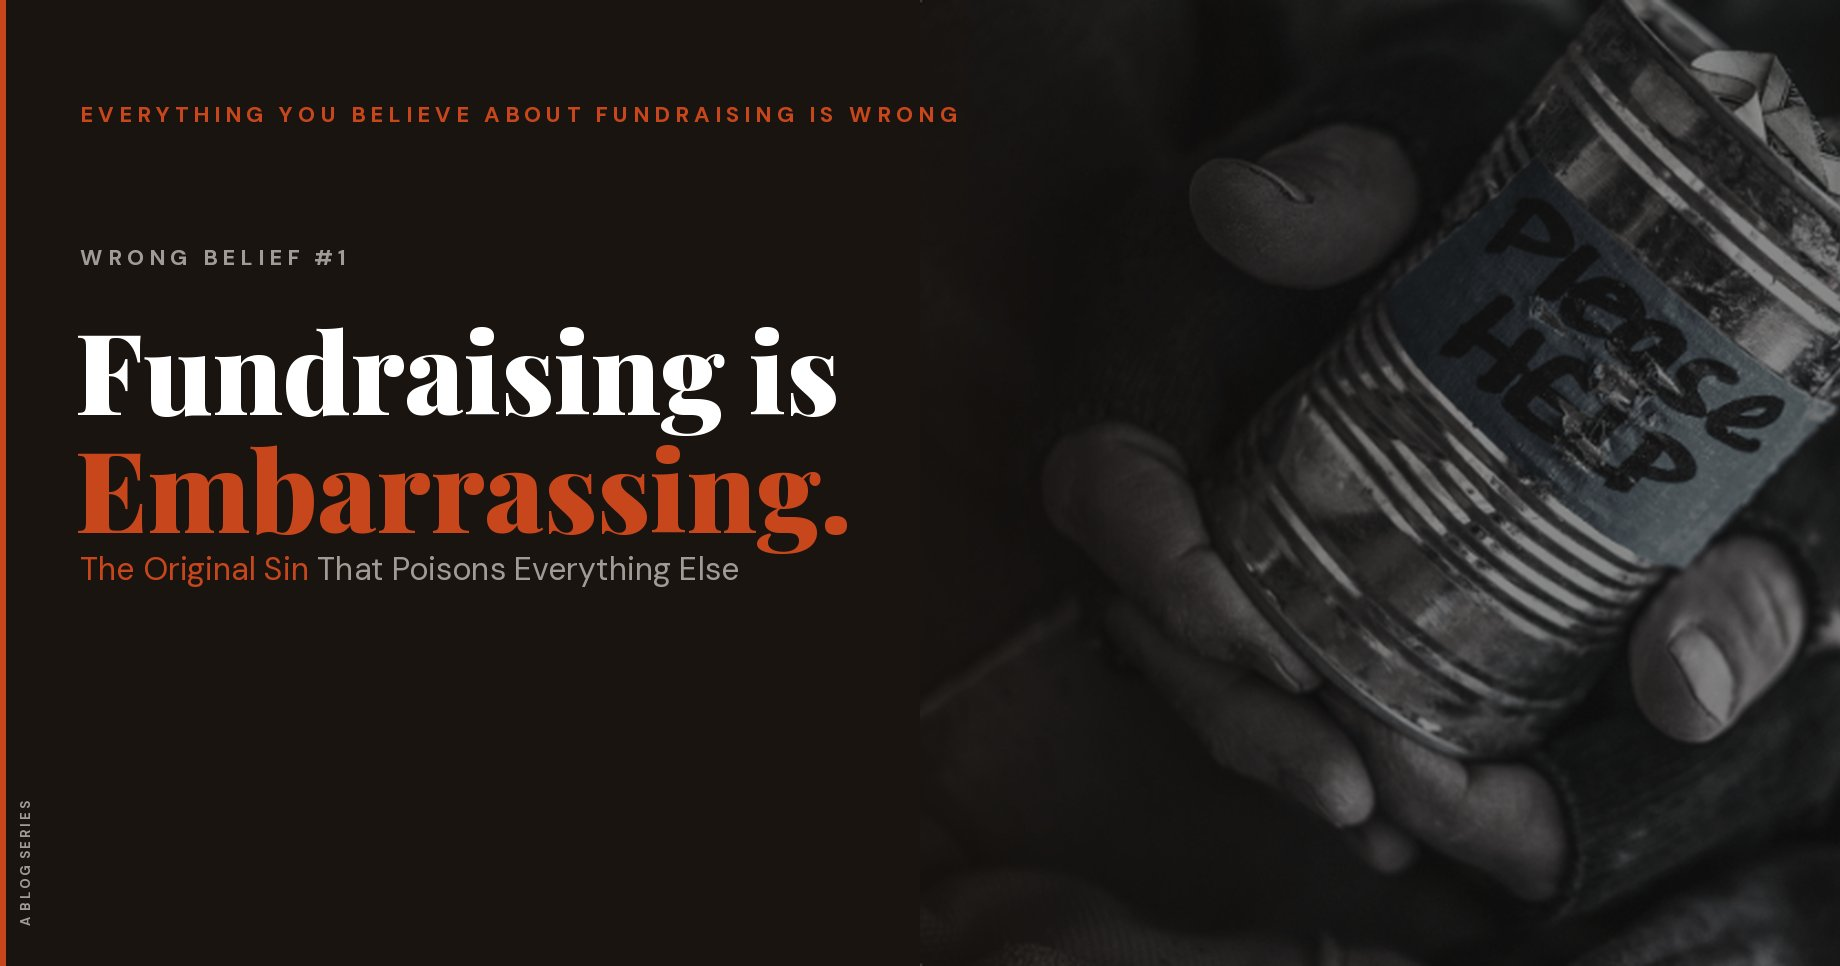
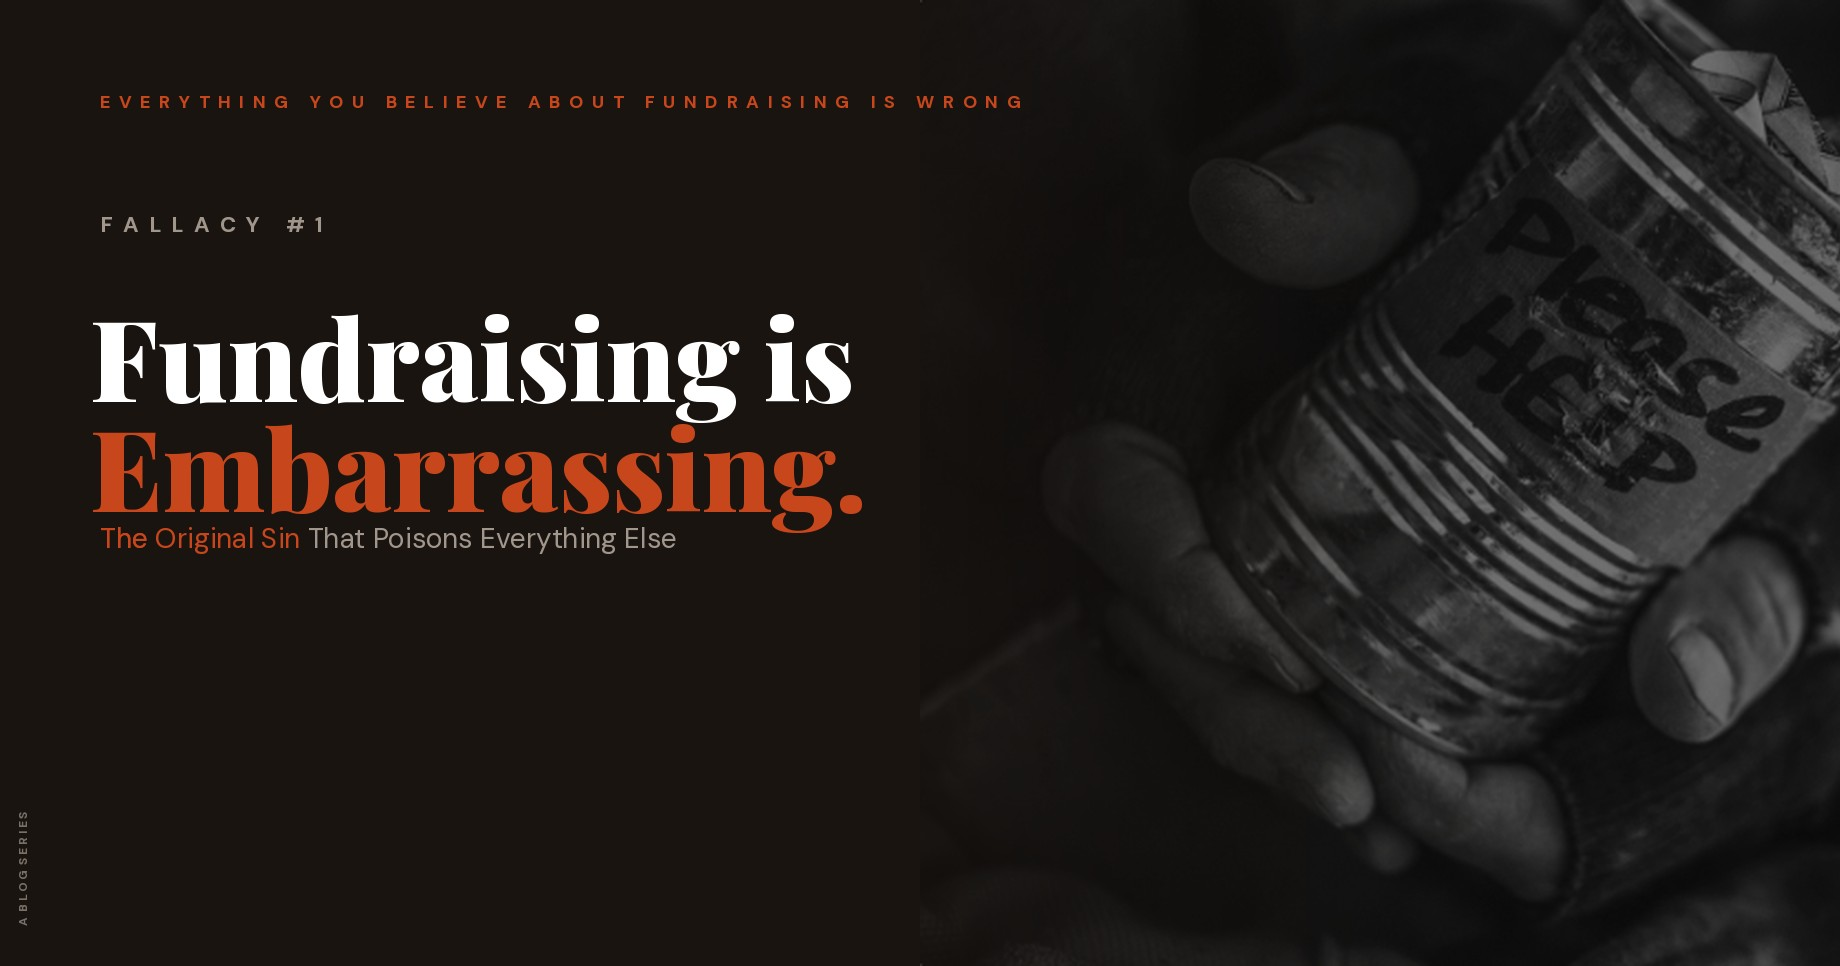
Update blog post with verbatim Word doc text, rename Wrong Belief to Fallacy, fix results.html
- Replace paraphrased/rewritten article body in fundraising-is-embarrassing.html
  with exact text from updated Word doc (restores missing paragraphs, fixes
  truncated sentence, removes non-source "research backs this up" section,
  corrects formatting: italic/bold per source)
- Rename "Wrong Belief #1" to "Fallacy #1" across all references: page title,
  OG/Twitter meta, article series label, blog listing tag, intro post series nav
- Regenerate hero image with "FALLACY #1" text
- Remove "I built the development program from scratch" from results.html

diff --git a/fundraising-is-embarrassing.html b/fundraising-is-embarrassing.html
@@ -11,7 +11,7 @@
     <meta property="og:image:width" content="1840">
     <meta property="og:image:height" content="966">
     <meta property="og:image:type" content="image/jpeg">
-    <meta property="og:image:alt" content="Wrong Belief #1: Fundraising is Embarrassing — blog post from the series Everything You Believe About Fundraising is Wrong">
+    <meta property="og:image:alt" content="Fallacy #1: Fundraising is Embarrassing — blog post from the series Everything You Believe About Fundraising is Wrong">
     <meta property="og:url" content="https://apolloadvancement.com/fundraising-is-embarrassing/">
     <meta property="article:author" content="John Jalsevac, PhD">
     <meta property="article:published_time" content="2026-03-13T00:00:00Z">
@@ -23,10 +23,10 @@
     <meta name="twitter:title" content="Fundraising is Embarrassing: The Original Sin That Poisons Everything Else">
     <meta name="twitter:description" content="If you believe fundraising is embarrassing, you won't get good at it. Full stop. Here's how to root out the belief that poisons nonprofit fundraising.">
     <meta name="twitter:image" content="https://apolloadvancement.com/blog-fundraising-is-embarrassing.jpg">
-    <meta name="twitter:image:alt" content="Wrong Belief #1: Fundraising is Embarrassing — blog post from the series Everything You Believe About Fundraising is Wrong">
+    <meta name="twitter:image:alt" content="Fallacy #1: Fundraising is Embarrassing — blog post from the series Everything You Believe About Fundraising is Wrong">
     <meta name="description" content="If you believe fundraising is embarrassing, you won't get good at it. Full stop. Here's how to root out the original sin that poisons nonprofit fundraising.">
     <link rel="canonical" href="https://apolloadvancement.com/fundraising-is-embarrassing/">
-    <title>Wrong Belief #1: Fundraising is Embarrassing | Apollo Advancement</title>
+    <title>Fallacy #1: Fundraising is Embarrassing | Apollo Advancement</title>
     <link rel="preconnect" href="https://fonts.googleapis.com">
     <link rel="preconnect" href="https://fonts.gstatic.com" crossorigin>
     <link rel="preload" href="https://fonts.googleapis.com/css2?family=DM+Sans:ital,wght@0,300;0,400;0,500;0,600;0,700;1,400&family=Playfair+Display:ital,wght@0,700;0,800;0,900;1,700;1,800;1,900&display=swap" as="style" onload="this.onload=null;this.rel='stylesheet'">
@@ -380,7 +380,7 @@
             "@id": "https://apolloadvancement.com/fundraising-is-embarrassing/"
         },
         "articleSection": "Fundraising",
-        "wordCount": 1662,
+        "wordCount": 1636,
         "isPartOf": [
             {
                 "@type": "Blog",
@@ -418,7 +418,7 @@
 <div class="article-header-wrap">
 <div class="article-header reveal">
     <div class="article-meta">
-        <span class="article-series"><a href="everything-you-believe-about-fundraising-is-wrong.html">Wrong Belief #1</a></span>
+        <span class="article-series"><a href="everything-you-believe-about-fundraising-is-wrong.html">Fallacy #1</a></span>
         <span class="article-date">March 13, 2026</span>
     </div>
     <h1>Fundraising is Embarrassing</h1>
@@ -449,53 +449,43 @@
 
     <p>Note: this wasn't an outsider. It was an experienced leader inside the non-profit sector, treating fundraising as a career stain.</p>
 
-    <p>In his manifesto, Dichter presented a simple, furious response: if you've given your life to solving a problem that matters, why are you ashamed to ask other people to help you solve it?</p>
+    <p>In his manifesto, Dichter presented a simple, furious response.</p>
 
     <blockquote><p>"You're devoting your life, your spirit, your energy, your faith into making the vision you have of a better future into a reality," he wrote. "So why are you so scared to ask people for money?"</p></blockquote>
 
-    <p>In my experience, this is one of the most important, transformative questions non-profit leaders can ask themselves. Transformative, because if they answer it correctly, it will literally change everything they do as a non-profit leader, because they will</p>
+    <p>This is one of the most important, transformative questions non-profit leaders can ask themselves. Transformative, because if they answer it correctly, it will change literally <em>everything</em> they do as a non-profit leader for the better.</p>
 
     <h2>The belief that poisons the well</h2>
 
-    <p>Here's what I've seen, again and again, working with nonprofits: the organizations that struggle most with fundraising don't lack for good programs, passionate staff, or worthy missions. What they lack is a healthy relationship with the act of asking for money.</p>
+    <p>Often, the organizations that struggle most with fundraising don't lack for good programs, passionate staff, or worthy missions. What they lack is a healthy relationship with the act of asking for money.</p>
 
     <p>And I don't mean they lack technique. I mean something deeper.</p>
 
-    <p>They believe, at a gut level, that fundraising is&hellip;.embarrassing. That it's awkward. That it's something you have to do, so that you can get around to doing the real work of the organization. That donors are doing them a favour, and that every ask carries with it an implicit apology.</p>
+    <p>They believe, at a gut level, that fundraising is&hellip;well&hellip;embarrassing. That it's awkward, <em>wrong</em> even. That it's something you <em>have</em> to do, so that you can get around to doing the real work of the organization. That donors are doing them a favour, full stop, and that every ask carries with it an implicit apology.</p>
 
-    <p>I call this belief the original sin of nonprofit fundraising. Not because it's the most dramatic mistake an organization can make, but because it's the one from which so many others flow.</p>
+    <p>I call this belief the original sin of nonprofit fundraising. Not because it's the most dramatic mistake an organization can make, <strong>but because it's the one from which so many others flow.</strong></p>
 
-    <p><strong>If you believe fundraising is embarrassing, you won't get good at it. Full stop.</strong></p>
+    <p><strong>If you believe fundraising is embarrassing, you won't get good at it. Full stop. And your mission will suffer.</strong></p>
 
-    <p>You won't invest in learning how to do it well. You won't practice. You won't read the books or listen to the podcasts that might open your eyes to just how fascinating fundraising can be. You won't build exceptional systems around it. You'll treat it like a chore to be endured rather than a skill to be mastered.</p>
+    <p>You won't invest in learning how to do it well. You won't practice. You won't read the books or listen to the podcasts that might open your eyes to how fascinating fundraising can be. You won't build exceptional systems around it. You'll treat it like a chore to be endured rather than a skill to be mastered.</p>
 
-    <p>If you believe fundraising is embarrassing, you'll default to the approaches that feel least like asking. You'll hold expensive, time-consuming events. You'll run bake sales and car washes and silent auctions. You'll build elaborate transactional structures designed to obscure the fact that what you really need is for people to give you their money because they believe in what you do.</p>
+    <p>If you believe fundraising is embarrassing, you'll default to the approaches that feel least like asking. You'll hold expensive, time-consuming events. You'll run bake sales and car washes and silent auctions that leave you exhausted, and raise little. You'll build elaborate transactional structures designed to obscure the fact that what you really need is for people to give you their money because they believe in what you do.</p>
 
-    <p>If you believe fundraising is embarrassing, your executive director won't do it. Your board won't do it. Your volunteers will treat it as the one part of their commitment they'd rather skip. And the one person you do hire to handle development will burn out within eighteen months, because they're carrying a weight that should be shared across the entire organization. Indeed, they will spend the entire time feeling as if they're fighting an uphill battle, having to continually convince the executive director and board to actually include fundraising language in organization documents and events.</p>
+    <p>If you believe fundraising is embarrassing, your executive director won't do it. Your board won't do it. Your volunteers will treat it as the one part of their commitment they'd rather leave to others. And the one person you do hire to handle development will burn out within eighteen months, because they're carrying a weight that should be shared across the entire organization. Very likely, they'll spend the entire time feeling as if they're fighting an uphill battle, having to continually convince the executive director and board to actually include fundraising language in organizational documents, or to include explicit asks at events.</p>
 
     <p>If you believe fundraising is embarrassing, your donors will feel it. People are remarkably attuned to the emotional signals of the person sitting across from them. A fundraiser who approaches a donor apologetically, tentatively, with the energy of someone asking for a favour they don't quite deserve, will get a very different response than one who approaches with ease, confidence and conviction.</p>
 
     <p>As <a href="https://resources.foundant.com/blog/problem-solver-not-nuisance-reframing-the-fundraising-stigma" target="_blank" rel="noopener">one writer in the field</a> put it: "If you're not comfortable enough in yourself or your program to ask someone for money, why would they be comfortable enough to give it to you?"</p>
 
-    <h2>The research backs this up</h2>
-
-    <p>This isn't just anecdotal. Studies consistently show that people underestimate how willing others are to help when asked directly.</p>
-
-    <p><a href="https://www.gsb.stanford.edu/insights/francis-flynn-if-you-want-something-ask-it" target="_blank" rel="noopener">Research involving volunteers for the Leukemia and Lymphoma Society</a> found that fundraisers overestimated the number of people they'd need to ask to reach their fundraising goal by 50 percent. The average donation was $17 higher than the volunteers had predicted.</p>
-
-    <p>People wanted to give. They were waiting to be asked. The fundraisers just couldn't believe it.</p>
-
-    <p><strong>The problem isn't out there with the donors. The problem is inside the organization.</strong></p>
-
     <h2>The reframe that changes everything</h2>
 
     <p>So here's the question: what if fundraising isn't an imposition at all?</p>
 
-    <p>What if, instead of thinking of yourself as someone with their hand out, you thought of yourself as someone offering an invitation?</p>
+    <p>What if, instead of thinking of yourself as someone with your hand outstretched like a beggar with a tin cup, you thought of yourself as someone with your hand outstretched in invitation for a firm handshake with a partner?</p>
 
-    <p>Not an invitation to a gala. Not a guilt trip disguised as a tax receipt. But a genuine invitation to invest (using that word alone can cause an immediate and dramatic reframe) in something that matters.</p>
+    <p>This is the reframe that transforms fundraising from something you endure into something you can actually take pride in.</p>
 
-    <p>This is the reframe that transforms fundraising from something you endure into something you can actually take pride in. When you ask someone to support your organization, you are not asking for a favour. You are presenting them with an opportunity. An opportunity to put their resources behind a cause they care about. An opportunity to be part of something larger than themselves. An opportunity to make a difference that they could not make alone.</p>
+    <p>When you ask someone to support your organization, you are not asking for a favour. You are presenting them with an <em>opportunity</em>. An opportunity to put their resources behind a cause they care about. An opportunity to be part of something larger than themselves. An opportunity to make a difference that they could not make alone.</p>
 
     <blockquote><p>"People think that asking for money is all about asking for money," wrote Dichter. "It is and it isn't. Most of the time it is about inspiring someone to see the world the way you do, and convincing them that you and your organization can actually make that vision into a reality. The resources come second."</p></blockquote>
 
@@ -503,15 +493,13 @@
 
     <p>We don't expect Apple to apologize for selling iPhones. We shouldn't expect nonprofits to apologize for raising the money they need to change the world.</p>
 
-    <h2>A spirituality of fundraising</h2>
-
-    <p>One of the most widely read books on fundraising takes an even more dramatic stance.</p>
+    <h2>Fundraising is&hellip;sacred?</h2>
 
     <p>Catholic priest Henri Nouwen was one of the most widely read spiritual writers of the twentieth century. He was a professor at Notre Dame, Yale, and Harvard who spent the last decade of his life living in a community for people with intellectual disabilities.</p>
 
-    <p>Shortly before his death in 1996, he gave a talk that was later published as a small booklet called <em><a href="https://henrinouwen.org/books/a-spirituality-of-fundraising" target="_blank" rel="noopener">A Spirituality of Fundraising</a></em>. It has quietly become one of the most important texts in the field, for fundraisers of all faiths or no faith at all.</p>
+    <p>Shortly before his death in 1996, he gave a talk that was later published as a small booklet called <em><a href="https://henrinouwen.org/books/a-spirituality-of-fundraising" target="_blank" rel="noopener">A Spirituality of Fundraising</a></em>. It has quietly become one of the most important texts in the field, for fundraisers of all faiths or no faith.</p>
 
-    <p>Nouwen's argument goes to the root of why fundraising makes people uncomfortable, and it offers a reframe so complete that it doesn't just make fundraising tolerable. It makes it sacred.</p>
+    <p>Nouwen's argument goes to the root of why fundraising makes people uncomfortable, and it offers a reframe so radical that it doesn't just reframe fundraising as tolerable. It makes it <em>sacred</em>.</p>
 
     <blockquote><p>"Fundraising is precisely the opposite of begging," Nouwen wrote. "When we seek to raise funds we are not saying, 'Please, could you help us out because lately it's been hard.' Rather, we are declaring, 'We have a vision that is amazing and exciting. We are inviting you to invest yourself through the resources that God has given you in this work to which God has called us.'"</p></blockquote>
 
@@ -523,17 +511,17 @@
 
     <p>I have seen this shift happen in real time with organizations I've worked with. The moment a board chair stops thinking of donor meetings as something painful and starts thinking of them as a chance to share something exciting, the entire dynamic of the conversation changes. The moment an executive director stops hedging and apologizing and instead says, clearly and directly, "Here is what we are building, here is what it costs, and here is what your investment will make possible," the donor across the table leans in instead of pulling back.</p>
 
-    <p>But something else happens when this shift takes hold. Once people inside an organization stop treating fundraising as something separate from the mission, they start to see how it belongs everywhere.</p>
+    <p>But something else happens when this shift takes hold. Once people inside an organization stop treating fundraising as something separate from the mission, <em>they start to see how it belongs everywhere.</em></p>
 
-    <p>The program director starts paying attention to the stories emerging from the work, not because someone told her to collect them for the next appeal, but because she realizes that sharing those stories is itself an act of service.</p>
+    <p>The program director starts paying attention to the stories emerging from the work, not because someone told her to collect them for the next appeal, but because she realizes that sharing those stories is itself an act of service. It is, in fact, a part of the mission.</p>
 
     <p>Telling the story of a life changed, a community strengthened, a child who found their footing produces hope. It generates gratitude. It spreads evidence of human goodness in a world that is hungry for it. And yes, it also inspires giving. But the giving is a natural consequence of the storytelling, not its sole purpose.</p>
 
-    <p>The finance team starts thinking about how to show donors the real impact of their dollars. The communications team starts writing not to fill a newsletter but to invite people deeper into the mission. The board stops seeing donor cultivation as a task they'd rather delegate and starts seeing it as one of the most meaningful parts of their service.</p>
+    <p>The finance team starts thinking about how to show donors the real impact of their dollars. The communications team starts writing not to fill a newsletter but to invite people deeper into the mission. The board stops seeing donor cultivation as a task they'd rather delegate and starts seeing it as one of the most meaningful parts of their service. Not only do they quickly see how every hour spent in a donor meeting is one of the most impactful things they can do for their organization, they also start to develop meaningful, fulfilling relationships with the donors. Friendships blossom. The organization flourishes into a community.</p>
 
-    <p>Fundraising stops being a department and becomes a way of life. A way of being that says: what we are doing here matters, and we are not going to be shy about inviting the world to be part of it.</p>
+    <p>Once this shift occurs, fundraising stops being a department and becomes <em>a way of life</em>. A way of being that says: what we are doing here matters, and we are not going to be shy about inviting the world to be part of it.</p>
 
-    <p>That is the shift. Not from bad fundraising to good fundraising. From embarrassment to conviction. From apology to invitation.</p>
+    <p>That is the shift. Not from bad fundraising to good fundraising. But from embarrassment to conviction. From apology to invitation.</p>
 
     <p>And once it happens, everything else follows.</p>
 

diff --git a/results.html b/results.html
@@ -345,7 +345,7 @@
     <p class="section-label">Case Study</p>
     <h2>Building a fundraising program from nothing.</h2>
     <p class="case-study-body">Wayside Academy was a small independent school with a powerful educational mission and almost no fundraising infrastructure. When I came on board, the school had roughly 50 donors and annual fundraising revenue of about $250,000. There was no development plan, no donor communications program, no systematic approach to cultivation or stewardship.</p>
-    <p class="case-study-body">I built the development program from scratch. I wrote the case for support. I created the donor communications: newsletters, appeal letters, direct mail campaigns. I developed the donor pipeline, identified and cultivated new prospects, and professionalized every aspect of how the school engaged its supporters. And I met with the major donor prospects who were simply waiting to be asked, successfully earning multiple six-figure gifts.</p>
+    <p class="case-study-body">I wrote the case for support. I created the donor communications: newsletters, appeal letters, direct mail campaigns. I developed the donor pipeline, identified and cultivated new prospects, and professionalized every aspect of how the school engaged its supporters. And I met with the major donor prospects who were simply waiting to be asked, successfully earning multiple six-figure gifts.</p>
     <div class="case-stats">
         <div class="case-stat-item"><span class="case-stat-num">300+</span><span class="case-stat-label">donors (from 50)</span></div>
         <div class="case-stat-item"><span class="case-stat-num">$600K+</span><span class="case-stat-label">annual revenue (from $250K)</span></div>

diff --git a/everything-you-believe-about-fundraising-is-wrong.html b/everything-you-believe-about-fundraising-is-wrong.html
@@ -502,7 +502,7 @@
     <a href="fundraising-is-embarrassing.html" class="series-next" style="text-decoration:none;color:inherit;">
         <div>
             <p class="series-next-label">Next in the series</p>
-            <p class="series-next-title">Wrong Belief #1: Fundraising is Embarrassing &mdash; the Original Sin of fundraising.</p>
+            <p class="series-next-title">Fallacy #1: Fundraising is Embarrassing &mdash; the Original Sin of fundraising.</p>
         </div>
         <span class="series-next-arrow">&rarr;</span>
     </a>

diff --git a/blog.html b/blog.html
@@ -315,7 +315,7 @@
         <img class="blog-featured-img" src="blog-fundraising-is-embarrassing.jpg" alt="Fundraising is Embarrassing">
         <div class="blog-featured-content">
             <div class="blog-featured-meta">
-                <span class="blog-tag">Wrong Belief #1</span>
+                <span class="blog-tag">Fallacy #1</span>
                 <span class="blog-date">March 13, 2026</span>
             </div>
             <h2 class="blog-featured-title">Fundraising is Embarrassing</h2>
